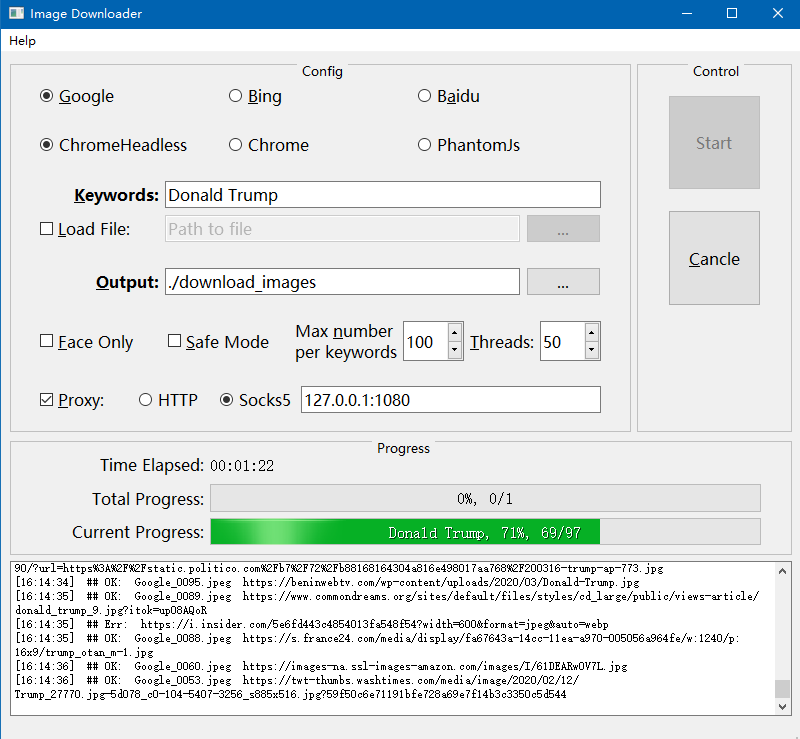
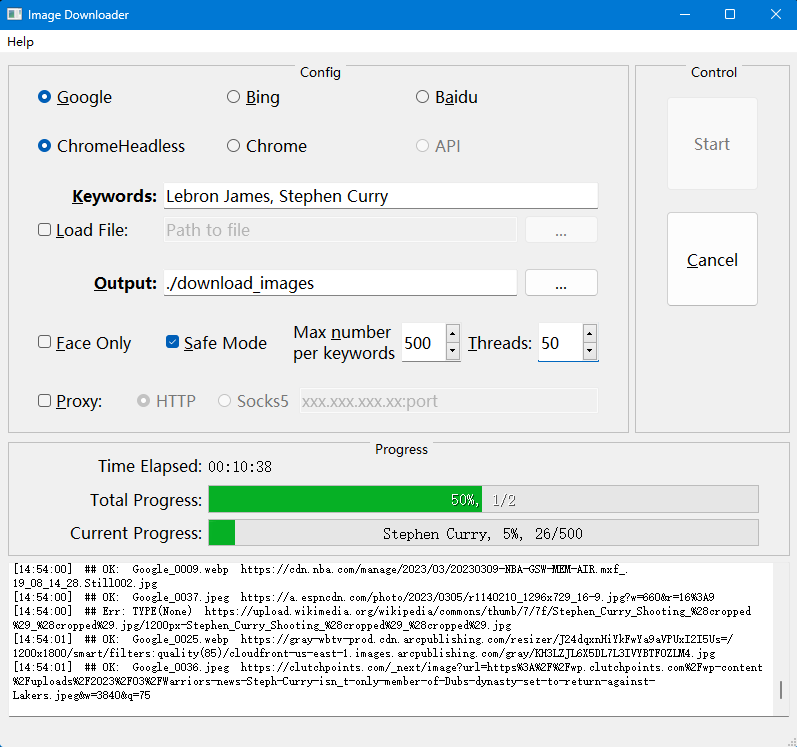
Update README

diff --git a/README_zh.md b/README_zh.md
@@ -14,49 +14,25 @@
 + GUI版本支持关键词键入，以及通过关键词列表文件（行分隔,**使用UTF-8编码**）输入进行批处理爬图下载
 + 可配置线程数进行并发下载，提高下载速度
 + 支持搜索引擎的条件查询（如 :site）
-+ 支持Google的安全模式开启和关闭
 + 支持socks5和http代理的配置，方便科学上网用户
 
-## 3. 安装
+## 3. 用法
 
-### 3.1 下载并安装python3.5+
-
-+ [下载地址](https://www.python.org/downloads/)
-
-### 3.2 下载chromedriver并配置[推荐]
-
-+ [下载地址](https://chromedriver.chromium.org/downloads)
-+ 选择对应系统、chrome浏览器的版本
-+ 下载完成后将`chromedriver`拷贝到 "本项目文件夹/bin/"，或者其他文件夹后添加到PATH中
-
-### 3.3 下载phantomjs并配置[过时]
-
-+ [下载地址](https://bitbucket.org/ariya/phantomjs/downloads)
-+ 选择最新的windows版本下载即可
-+ 下载完成后将phantomjs.exe拷贝到 "本项目文件夹/bin/"，或者其他文件夹后添加到PATH中
-
-### 3.4 安装相关python库
-
-```bash
-pip3 install -r requirements.txt
-```
-
-## 4. 如何使用
-
-### 4.1 图形界面
+### 3.1 图形界面
 
 运行`image_downloader_gui.py`脚本以启动GUI界面
+
 ```bash
 python image_downloader_gui.py
 ```
 
 ![GUI](/GUI.png)
 
-### 4.2 命令行
+### 3.2 命令行
 
 ```bash
 usage: image_downloader.py [-h] [--engine {Google,Bing,Baidu}]
-                           [--driver {chrome_headless,chrome,phantomjs}]
+                           [--driver {chrome_headless,chrome,api}]
                            [--max-number MAX_NUMBER]
                            [--num-threads NUM_THREADS] [--timeout TIMEOUT]
                            [--output OUTPUT] [--safe-mode] [--face-only]
@@ -64,10 +40,6 @@ usage: image_downloader.py [-h] [--engine {Google,Bing,Baidu}]
                            [--proxy_socks5 PROXY_SOCKS5]
                            keywords
 ```
-
-## 备注
-
-由于Google修改了前端页面，无法直接从单个页面获取全部图片的原始链接，所以需要通过模拟人工点击操作遍历所有图片，因此使用Google引擎来爬取图片时间较长，如需加速可以减少单个关键字的最大图片数量。
 
 ## 许可
 

diff --git a/README.md b/README.md
@@ -2,11 +2,11 @@
 
 [![996.icu](https://img.shields.io/badge/link-996.icu-red.svg)](https://996.icu)
 
-## [中文说明](https://github.com/sczhengyabin/Image-Downloader/blob/master/README_zh.md)
+## [中文说明](https://github.com/QianyanTech/Image-Downloader/blob/master/README_zh.md)
 
 ## 1. Introdoction
 
-Crawl and download images using Selenium
+Crawl and download images using Selenium or API
 Using python3 and PyQt5
 
 ## 2. Key features
@@ -19,32 +19,9 @@ Using python3 and PyQt5
 + Proxy configuration (socks, http).
 + CMD and GUI ways of using are provided.
 
-## 3. Install
+## 3. Usage
 
-### 3.1 Download and install Python3.5+
-
-+ Download Latest version of Python3.5 installer from [here](https://www.python.org/downloads/)
-
-### 3.2 Download and setup chromedriver [recommend]
-
-+ Require Google Chrome Browser or Chromium Browser installed.
-+ Download the corresponding version of chromedriver from [here](https://chromedriver.chromium.org/downloads)
-+ Copy `chromedriver` binary to ${project_directory}/bin/ or add it to PATH.
-
-### 3.3 Download and setup phantomjs [deprecated]
-
-+ Official phantomjs prebuilt executable can be downloaded from [here](https://bitbucket.org/ariya/phantomjs/downloads)
-+ Copy `phantomjs` to ${project_directory}/bin/ or add it to PATH.
-
-### 3.4 Install python packages
-
-```bash
-pip3 install -r requirements.txt
-```
-
-## 4. Usage
-
-### 4.1 GUI
+### 3.1 GUI
 
 Run `image_downloader_gui.py` script to yank GUI:
 ```bash
@@ -53,11 +30,11 @@ python image_downloader_gui.py
 
 ![GUI](/GUI.png)
 
-### 4.2 CMD
+### 3.2 CMD
 
 ```bash
 usage: image_downloader.py [-h] [--engine {Google,Bing,Baidu}]
-                           [--driver {chrome_headless,chrome,phantomjs}]
+                           [--driver {chrome_headless,chrome,api}]
                            [--max-number MAX_NUMBER]
                            [--num-threads NUM_THREADS] [--timeout TIMEOUT]
                            [--output OUTPUT] [--safe-mode] [--face-only]
